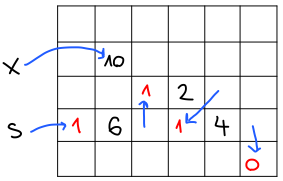
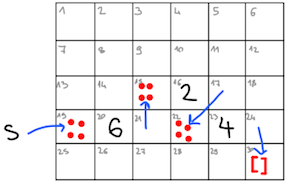
Prosojnice za spremenljive podatkovne strukture

Changed region(s): [[0.0, 0.0, 0.9894, 0.9945]]

diff --git a/10-spremenljive-podatkovne-strukture/predavanja/prosojnice.html b/10-spremenljive-podatkovne-strukture/predavanja/prosojnice.html
@@ -102,7 +102,7 @@ let g x =
 
 class: question, center
 
-## Kakšno vrednost vrne program
+### Kakšno vrednost vrne program
 
 .left.source[```
 let a = 1 in
@@ -122,7 +122,7 @@ d := 2;
 
 ---
 
-### Reference so izvedene s spremenljivimi zapisi
+### Reference so izvedene s **spremenljivimi zapisi**
 
 .source[```
 type 'a ref = {mutable contents : 'a}
@@ -136,20 +136,95 @@ let (:=) r x = r.contents <- x
 
 ---
 
-### Tabele v OCamlu imajo tip `array`
+### OCamlov tip `list` je predstavljen z<br>**verižnimi seznami**
+
+.left-column[.terminal[```ocaml
+let s = [6; 2; 4]
+```]]
+
+.right-column[.right[![](slike/seznam-ocaml.png)]]
+
+```ocaml
+s : 19         0   0   0   0   0   0
+               0   0   0   0   0   0
+               0   0   1   2  22   0
+               1   6  15   1   4  30
+               0   0   0   0   0   0
+```
+
+---
+
+### OCaml pozna tudi tip `array`, ki je<br>predstavljen s **tabelami**
+
+.left-column[.terminal[```ocaml
+let s = [|6; 2; 4|]
+```]]
+
+.right-column[.right[![](slike/tabela-ocaml.png)]]
+
+```ocaml
+s : 19         0   0   0   0   0   0
+               0   0   0   0   0   0
+               0   0   0   0   0   0
+               3   6   2   4   0   0
+               0   0   0   0   0   0
+```
+
+
+---
+
+### Pythonov tip `list` je prav tako<br>predstavljen s tabelami
+
+.left-column[.terminal[```python
+s = [6, 2, 4]
+```]]
+
+.right-column[.right[![](slike/tabela-python.png)]]
+
+```python
+s : 19         0   0 123   6   0   0
+               0   0   0   0 123   4
+               0   0   0   0   0   0
+             246   3   6   3  11  29
+               0   0   0   0 123   2
+```
+
+Na mestih `123` in `246` je shranjena še definicija
+razredov `int` in `list`.
+
+---
+
+class: question
+
+### Kakšna je časovna zahtevnost teh operacij?
+
+|                                 | OCaml `array`  | Python `list`  | OCaml `list`
+| ------------------------------: |:-------------: | :------------: | :--------------:
+| indeksiranje                    | .spoiler[O(1)] | .spoiler[O(1)] | .spoiler[O(n)]
+| dodaj na začetek                | .spoiler[O(n)] | .spoiler[O(n)] | .spoiler[O(1)]
+| dodaj na konec                  | .spoiler[O(n)] | .spoiler[O(1)] | .spoiler[O(n)]
+| dolžina                         | .spoiler[O(1)] | .spoiler[O(1)] | .spoiler[O(n)]
+| izračun repa                    | .spoiler[O(n)] | .spoiler[O(n)] | .spoiler[O(1)]
+
+---
+
+### Funkcije za delo s tabelami so v modulu [`Array`](https://caml.inria.fr/pub/docs/manual-ocaml/libref/Array.html)
 
 .terminal[```
-# let t = [|1; 2; 3|];;
-val t : int array = [|1; 2; 3|]
+# Array.length [|10; 20; 30|];;
+- : int = 3
 
-# t.(0);;
-- : int = 1
+# Array.make 3 'a';;
+- : char array = [|'a'; 'a'; 'a'|]
 
-# let m = [|[|1; 2|]; [|3; 4|]|];;
-val m : int array array = [|[|1; 2|]; [|3; 4|]|]
+# Array.of_list [5; 2; 1; 4; 3; 6; 8; 7];;
+- : int array = [|5; 2; 1; 4; 3; 6; 8; 7|]
 
-# m.(0).(1);;
-- : int = 2
+# Array.make_matrix 2 2 0;;
+- : int array array = [|[|0; 0|]; [|0; 0|]|]
+
+# Array.map succ [|10; 20; 30|];;
+- : int array = [|11; 21; 31|]
 ```]
 
 ---
@@ -171,27 +246,6 @@ val t' : int array = [|1; 2; 3|]
 
 # t';;
 - : int array = [|1; 2; 5|]
-```]
-
----
-
-### Funkcije za delo s tabelami so v modulu [`Array`](https://caml.inria.fr/pub/docs/manual-ocaml/libref/Array.html)
-
-.terminal[```
-# Array.length [|10; 20; 30|];;
-- : int = 3
-
-# Array.make 3 'a';;
-- : char array = [|'a'; 'a'; 'a'|]
-
-# Array.of_list [5; 2; 1; 4; 3; 6; 8; 7];;
-- : int array = [|5; 2; 1; 4; 3; 6; 8; 7|]
-
-# Array.make_matrix 2 2 0;;
-- : int array array = [|[|0; 0|]; [|0; 0|]|]
-
-# Array.map succ [|10; 20; 30|];;
-- : int array = [|11; 21; 31|]
 ```]
 
 ---
